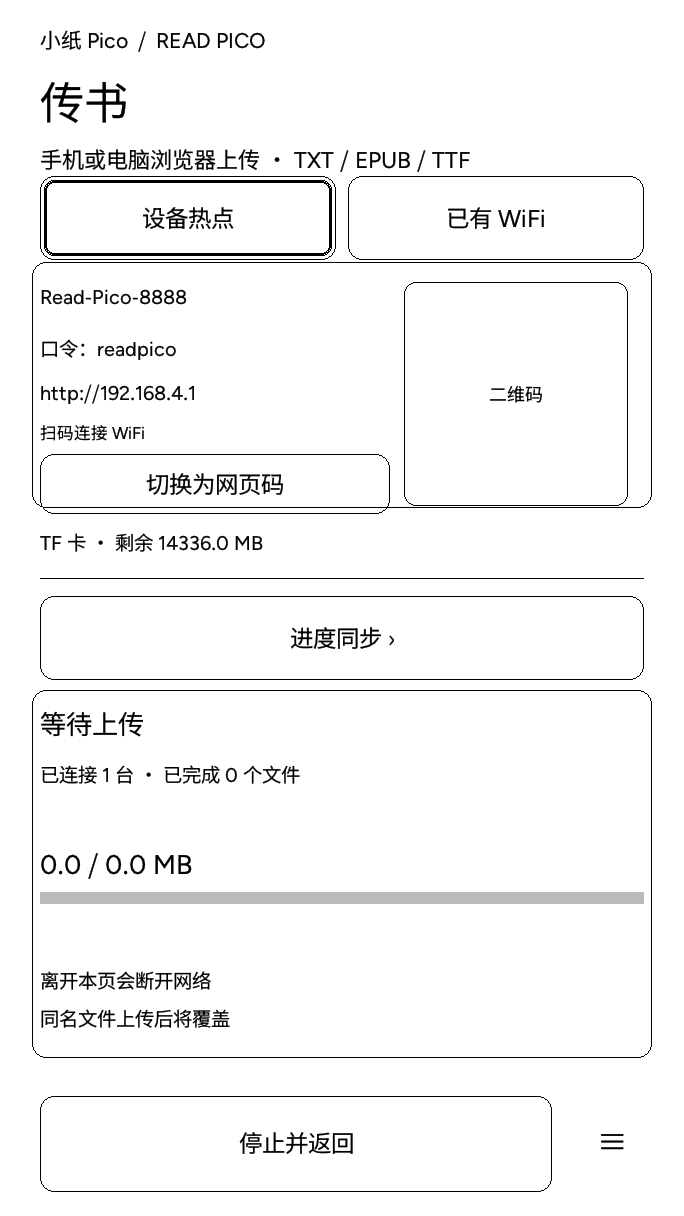
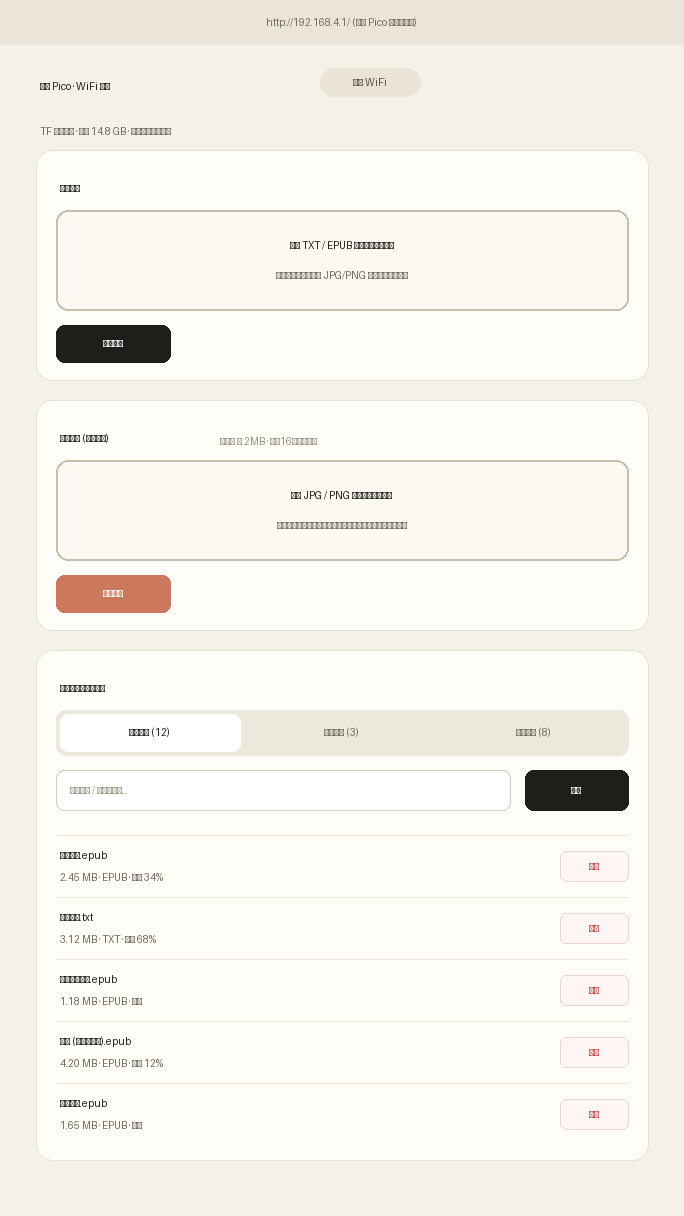
feat(web): update landing page with v0.5.45 features, custom wallpaper and transfer UI screenshot

diff --git a/web/src/utils/i18n.ts b/web/src/utils/i18n.ts
@@ -51,11 +51,12 @@ export interface Translation {
     subtitle: string;
     tabs: {
       reading: string;
+      wallpaper: string;
       shelf: string;
+      home: string;
       journal: string;
       calendar: string;
       quotes: string;
-      home: string;
       transfer: string;
     };
   };
@@ -142,30 +143,30 @@ export const translations: Record<Lang, Translation> = {
       reading: {
         title: '沉浸正文阅读',
         desc: '支持 EPUB 图文排版与 TXT 原生解析。',
-        bullet1: '16 级灰阶抗锯齿字形与物理平滑排版',
-        bullet2: '极速断点续读，精准字符级进度记忆',
-        bullet3: '行距、边距、字号微调与轻量章节书签',
+        bullet1: '独创 21 相单向无闪直刷算法，文字边缘细腻平滑不发白',
+        bullet2: '极速断点续读，精准字符级进度记忆与章节快速跳转',
+        bullet3: '行距、边距、字号微调、智能书签与丰富排版设置',
       },
       shelf: {
         title: '双存储卡片书架',
         desc: '内置高速 Flash 与 TF 卡扩展双源书库管理。',
         bullet1: '离线拼音、声母与英文拼写即时书名检索',
-        bullet2: 'EPUB 封面自动有界解码与排版回退卡片',
-        bullet3: '批量管理与清晰的已读百分比标记',
+        bullet2: 'EPUB 封面自动有界解码，精致卡片与排版回退',
+        bullet3: '批量管理与清晰的已读百分比进度标记',
       },
       journal: {
         title: '今日阅读手帐',
         desc: '阅读足迹与习惯沉淀，专属个人精神岛屿。',
-        bullet1: '精准统计今日与近 7 日真实专注时长',
-        bullet2: '打卡月历与阅读热度直观呈现',
-        bullet3: '长按摘录佳句，生成便签与足迹卡片',
+        bullet1: '精准统计今日与近 7 日真实专注时长及柱状走势',
+        bullet2: '打卡月历与阅读热度直观呈现（盖印达标日）',
+        bullet3: '正文长按摘录佳句，生成金句便签卡片并直达原文',
       },
       transfer: {
-        title: '无线传书与 USB 电脑挂载',
-        desc: '支持无线 WiFi 传书与标准 USB 电脑连接挂载 TF 卡，灵活自由。',
-        bullet1: '设备自建 AP 热点扫码直传 / 局域网 STA 浏览器拖拽极速导入',
-        bullet2: '设置中一键开启 USB 电脑连接模式，免拔卡直接挂载为电脑 U 盘',
-        bullet3: '兼容 KOReader 的 Kosync 云端进度双向同步与 SNTP 自动校时',
+        title: '无线传书传图与文件管理',
+        desc: '支持双模 WiFi 传书、自定义锁屏壁纸图片分流及标准 USB 挂载。',
+        bullet1: '扫码或局域网免驱动极速拖拽导入图书、自定义字体与壁纸照片',
+        bullet2: '网页端直接浏览与管理删除 TF 卡上的图书、字体与壁纸文件',
+        bullet3: '设置中一键开启 USB 电脑 U 盘模式，传输中智能抑制空闲锁屏',
       },
     },
     gallery: {
@@ -174,6 +175,7 @@ export const translations: Record<Lang, Translation> = {
       subtitle: '684 × 1216 分辨率原生渲染画面，精工细作的每一个交互页面',
       tabs: {
         reading: '正文阅读',
+        wallpaper: '自定义壁纸锁屏',
         shelf: '书架 (带真实书封)',
         home: '首页正在读',
         journal: '手帐 · 今日足迹',
@@ -263,30 +265,30 @@ export const translations: Record<Lang, Translation> = {
       reading: {
         title: 'Immersive Reader',
         desc: 'Native EPUB & TXT engine with rich typography.',
-        bullet1: '16 gray-level antialiased rendering and smooth layout',
-        bullet2: 'Instant resume with exact character-level memory',
-        bullet3: 'Fine adjustments for margin, leading, size and bookmarks',
+        bullet1: 'Proprietary 21-phase one-way flash-free direct engine with smooth, solid edges',
+        bullet2: 'Instant resume with exact character-level memory and swift TOC navigation',
+        bullet3: 'Fine adjustments for margin, leading, font sizes and smart bookmarks',
       },
       shelf: {
         title: 'Dual-Storage Shelf',
         desc: 'Seamless management across internal Flash and MicroSD.',
         bullet1: 'Instant search by pinyin, initials and English titles',
-        bullet2: 'Automatic EPUB cover extraction with typographic fallback',
-        bullet3: 'Batch management with clear progress marks',
+        bullet2: 'Automatic EPUB cover extraction with typographic fallback cards',
+        bullet3: 'Batch management with clear progress marks and source badges',
       },
       journal: {
         title: 'Today Journal',
         desc: 'Reading footprint, habits, and personal reflections.',
-        bullet1: 'Precise tracking for daily and 7-day focus minutes',
-        bullet2: 'Calendar check-ins with monthly activity heatmaps',
-        bullet3: 'Long-press quote clips saved into notes & cards',
+        bullet1: 'Precise tracking for daily and 7-day focus minutes with trend bar charts',
+        bullet2: 'Monthly calendar check-ins with stamped reading achievements',
+        bullet3: 'Long-press quote clips saved into cards with direct source links',
       },
       transfer: {
-        title: 'Wireless Transfer & USB Disk Mount',
-        desc: 'Wire-free book uploads plus USB computer connection for direct TF card mounting.',
-        bullet1: 'AP hotspot QR code transfer & local LAN browser drag-and-drop',
-        bullet2: 'One-tap USB connection in settings to mount TF card directly as a computer disk',
-        bullet3: 'Kosync bidirectional cloud progress sync (KOReader compatible) & auto time sync',
+        title: 'Wireless Management & USB Disk Mount',
+        desc: 'Wire-free uploads, wallpaper photo routing, and direct USB disk mounting.',
+        bullet1: 'Drag-and-drop books, custom TTF fonts and lockscreen wallpaper photos without drivers',
+        bullet2: 'Manage and delete books, fonts and images directly within the web interface',
+        bullet3: 'One-tap USB connection to mount TF card directly, with auto-lock suppression during transfers',
       },
     },
     gallery: {
@@ -295,6 +297,7 @@ export const translations: Record<Lang, Translation> = {
       subtitle: '684 × 1216 native resolution renders capturing genuine e-paper precision',
       tabs: {
         reading: 'Reading View',
+        wallpaper: 'Custom Wallpaper Lock',
         shelf: 'Book Shelf (with Covers)',
         home: 'Now Reading',
         journal: 'Journal · Today',

diff --git a/web/src/components/FeaturesAndGallery.tsx b/web/src/components/FeaturesAndGallery.tsx
@@ -7,7 +7,7 @@ interface ContentProps {
   lang: Lang;
 }
 
-type GalleryTab = 'reading' | 'shelf' | 'home' | 'journal' | 'calendar' | 'quotes' | 'transfer';
+type GalleryTab = 'reading' | 'wallpaper' | 'shelf' | 'home' | 'journal' | 'calendar' | 'quotes' | 'transfer';
 
 export const FeaturesAndGallery: React.FC<ContentProps> = ({ lang }) => {
   const tFeat = translations[lang].features;
@@ -21,6 +21,12 @@ export const FeaturesAndGallery: React.FC<ContentProps> = ({ lang }) => {
       alt: 'Read Pico Reading View',
       label: tGal.tabs.reading,
       desc: lang === 'zh' ? '真实图文正文排版 · 16 级灰阶抗锯齿字形与章节底栏' : 'Real illustrated prose layout with 16-level grayscale typography',
+    },
+    wallpaper: {
+      src: './screenshots/wallpaper.png',
+      alt: 'Read Pico Wallpaper Lock Screen View',
+      label: tGal.tabs.wallpaper,
+      desc: lang === 'zh' ? '自定义壁纸锁屏 · 0.5%/99.5% 自动色阶扩展对比度 + 16 级有序抖动，无残影高清定稿' : 'Custom photo wallpaper lock screen with 16-level dither and auto-level contrast boost',
     },
     shelf: {
       src: './screenshots/shelf.png',
@@ -56,7 +62,7 @@ export const FeaturesAndGallery: React.FC<ContentProps> = ({ lang }) => {
       src: './screenshots/transfer.png',
       alt: 'Read Pico Transfer View',
       label: tGal.tabs.transfer,
-      desc: lang === 'zh' ? '无线传书与 USB 电脑挂载 · AP 热点与局域网 STA 双模秒级传书' : 'Wireless Wi-Fi & USB disk mode: AP hotspot and local LAN station sync',
+      desc: lang === 'zh' ? '局域网传书管理页 · 浏览器直接访问，支持图书/字体/锁屏壁纸拖拽上传与在线管理删除' : 'Web transfer interface: browser drag-and-drop for books, fonts and wallpapers with online management',
     },
   };
 
@@ -79,7 +85,7 @@ export const FeaturesAndGallery: React.FC<ContentProps> = ({ lang }) => {
     },
   ];
 
-  const tabList: GalleryTab[] = ['reading', 'shelf', 'home', 'journal', 'calendar', 'quotes', 'transfer'];
+  const tabList: GalleryTab[] = ['reading', 'wallpaper', 'shelf', 'home', 'journal', 'calendar', 'quotes', 'transfer'];
 
   return (
     <>

diff --git a/web/src/App.tsx b/web/src/App.tsx
@@ -73,10 +73,10 @@ export const App: React.FC = () => {
       {/* Hero 区域 (Claude 规范: 96px 间距，Copernicus/Tiempos 衬线大标，Coral 主色 CTA) */}
       <section className="pt-20 pb-24 px-4 sm:px-6 lg:px-8 max-w-[1200px] mx-auto flex flex-col lg:flex-row items-center justify-between gap-12 lg:gap-8">
         <div className="max-w-xl text-center lg:text-left">
-          {/* Claude 风格 badge-pill 标签 */}
+          {/* Claude 风格 badge-pill 标签 (带最新固件版本号) */}
           <div className="inline-flex items-center gap-2 px-3 py-1 rounded-full bg-[#efe9de] border border-[#e6dfd8] text-xs font-medium text-[#6c6a64] mb-6">
             <span className="w-1.5 h-1.5 rounded-full bg-[#cc785c]" />
-            <span>ESP32-S3 · 4.7" E-Paper · 16 Grayscale</span>
+            <span>ESP32-S3 · 4.7" E-Paper · Firmware v0.5.45</span>
           </div>
 
           <h1 className="text-4xl sm:text-6xl font-claude-serif text-[#141413] leading-[1.08] mb-6">
